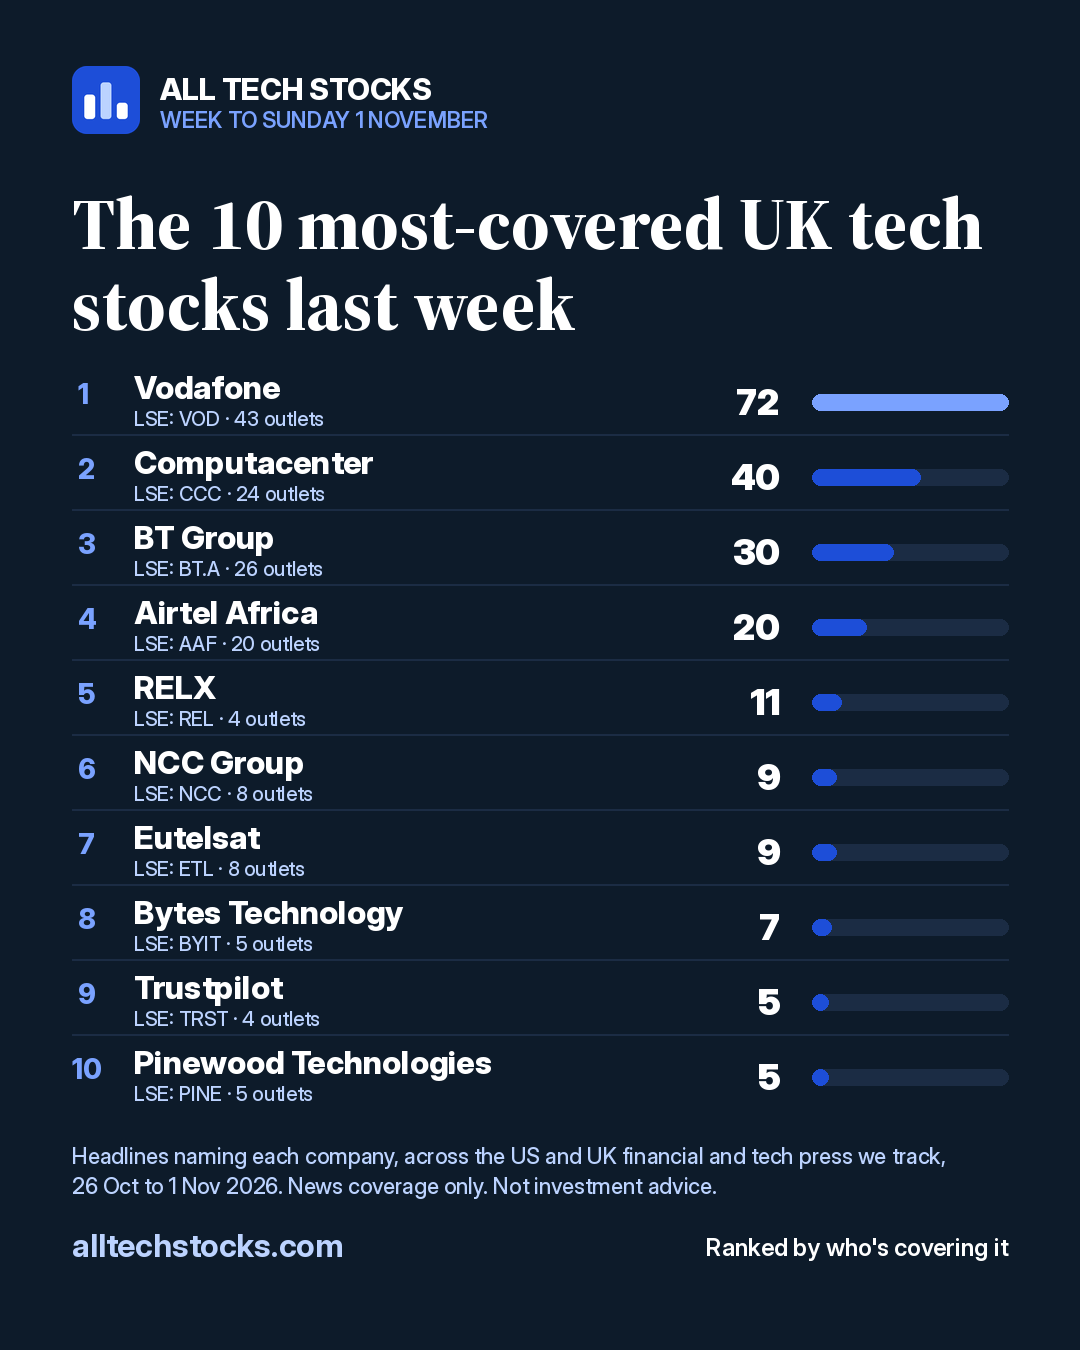
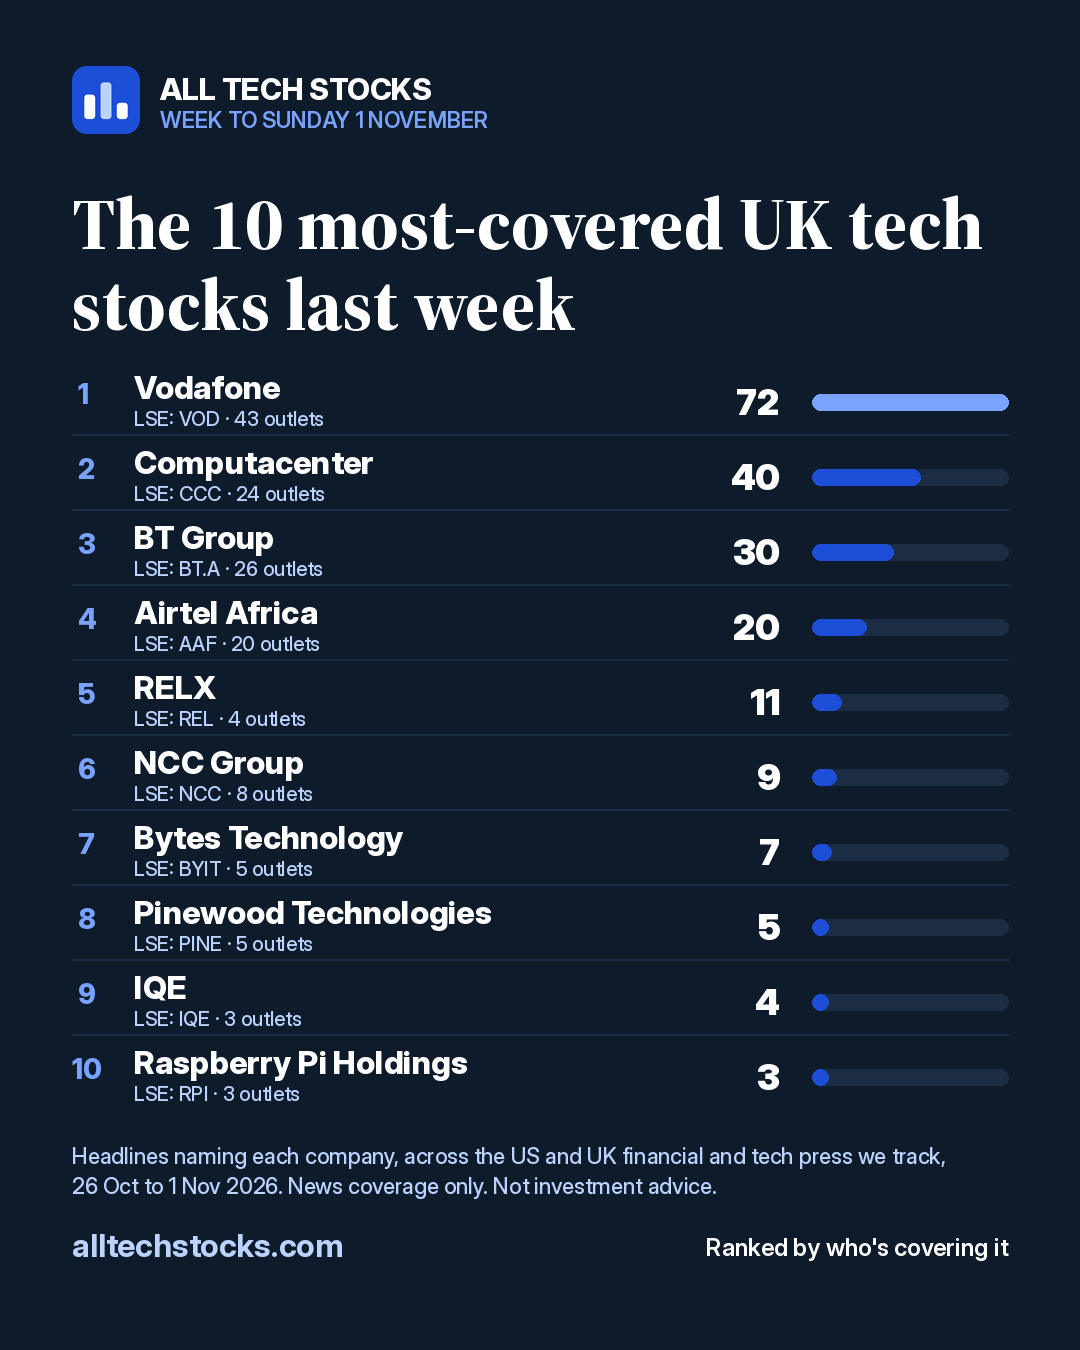
UK stocks must be UK-based with their main listing in London
Removes Eutelsat (Paris), Trustpilot (Copenhagen), Baltic Classifieds
(Vilnius) and Seeing Machines (Canberra). Rebuilds this week's cards.

Claude-Session: https://claude.ai/code/session_01Wgur947LbmuJhBzfK44Hrm

diff --git a/templates/pages/about.html b/templates/pages/about.html
@@ -3,7 +3,7 @@
 <p class="lede">{{ site.name }} shows which US and UK listed tech companies the news is covering most, updated every hour. It's a place to start your research. It never tells you what to buy or sell.</p>
 
 <h2>How it works</h2>
-<p>Every hour we check about 45 news sources: Reuters, Bloomberg, the FT, the Wall Street Journal, CNBC and the rest of the US and UK financial press, plus tech titles, company newsrooms and London Stock Exchange announcements. We also run news searches covering all {{ stocks|length }} companies we follow, a few at a time. To decide what counts as a tech stock we use the official classifications: for the US, companies in the Information Technology and Communication Services sectors of the standard used by the S&P 500; for the UK, companies the London Stock Exchange files under Technology or Telecommunications. When several outlets report the same event, we group their articles into one story.</p>
+<p>Every hour we check about 45 news sources: Reuters, Bloomberg, the FT, the Wall Street Journal, CNBC and the rest of the US and UK financial press, plus tech titles, company newsrooms and London Stock Exchange announcements. We also run news searches covering all {{ stocks|length }} companies we follow, a few at a time. To decide what counts as a tech stock we use the official classifications: for the US, companies in the Information Technology and Communication Services sectors of the standard used by the S&P 500; for the UK, companies based in the UK with their main listing in London that the London Stock Exchange files under Technology or Telecommunications. When several outlets report the same event, we group their articles into one story.</p>
 <p>Stories are ranked by how many outlets are covering them. A major financial paper counts for more than a specialist title. A story has to name a US or UK listed tech company we follow to appear, unless it's about tech shares as a whole and widely covered (two national papers, say). Older stories lose half their score every 12 hours, so the top of the page shows what's being covered right now. The stock table works the same way. Nobody picks the order by hand.</p>
 <p>Every headline links straight to the publisher that wrote it. We don't copy or rewrite articles.</p>
 

diff --git a/README.md b/README.md
@@ -150,7 +150,7 @@ Settings under `linkedin:` in `config/rules.yaml`, code in `engine/linkedin.py`.
 
 ## The watchlist
 
-`config/watchlist.yaml` has 123 stocks: 82 US, 41 UK. Add or remove any. Each needs a symbol,
+`config/watchlist.yaml` has 119 stocks: 82 US, 37 UK. Add or remove any. Each needs a symbol,
 exchange (NASDAQ, NYSE or LSE), name and the aliases that should tag a story. Names that are also
 everyday words ("Arm", "Meta", "Oracle", "Sage") go under `exact` so only the capitalised form matches.
 Put quotes round tickers YAML reads as words, like `"ON"`. Add `results: 2026-11-19` to show a
@@ -161,8 +161,9 @@ Technology or Communication Services sectors. The Wikipedia list of S&P 500 comp
 one's sector. Amazon and Tesla (Consumer Discretionary), Uber (Industrials) and PayPal, Coinbase and
 Robinhood (Financials) are off the list for that reason.
 
-The UK list follows the LSE's own classification: every company the exchange files under Technology
-(ICB industry), plus Telecommunications. Before adding a UK company, check its tearsheet on
+A UK stock has its main listing in London and its headquarters in the UK, so Eutelsat (Paris) and
+Trustpilot (Copenhagen) are off. Within that, the UK list follows the LSE's own classification: every
+company the exchange files under Technology (ICB industry), plus Telecommunications. Before adding a UK company, check its tearsheet on
 londonstockexchange.com. If it says something else (Experian is Industrials, Rightmove is Real Estate,
 Games Workshop is Leisure Goods), it doesn't go on.
 
